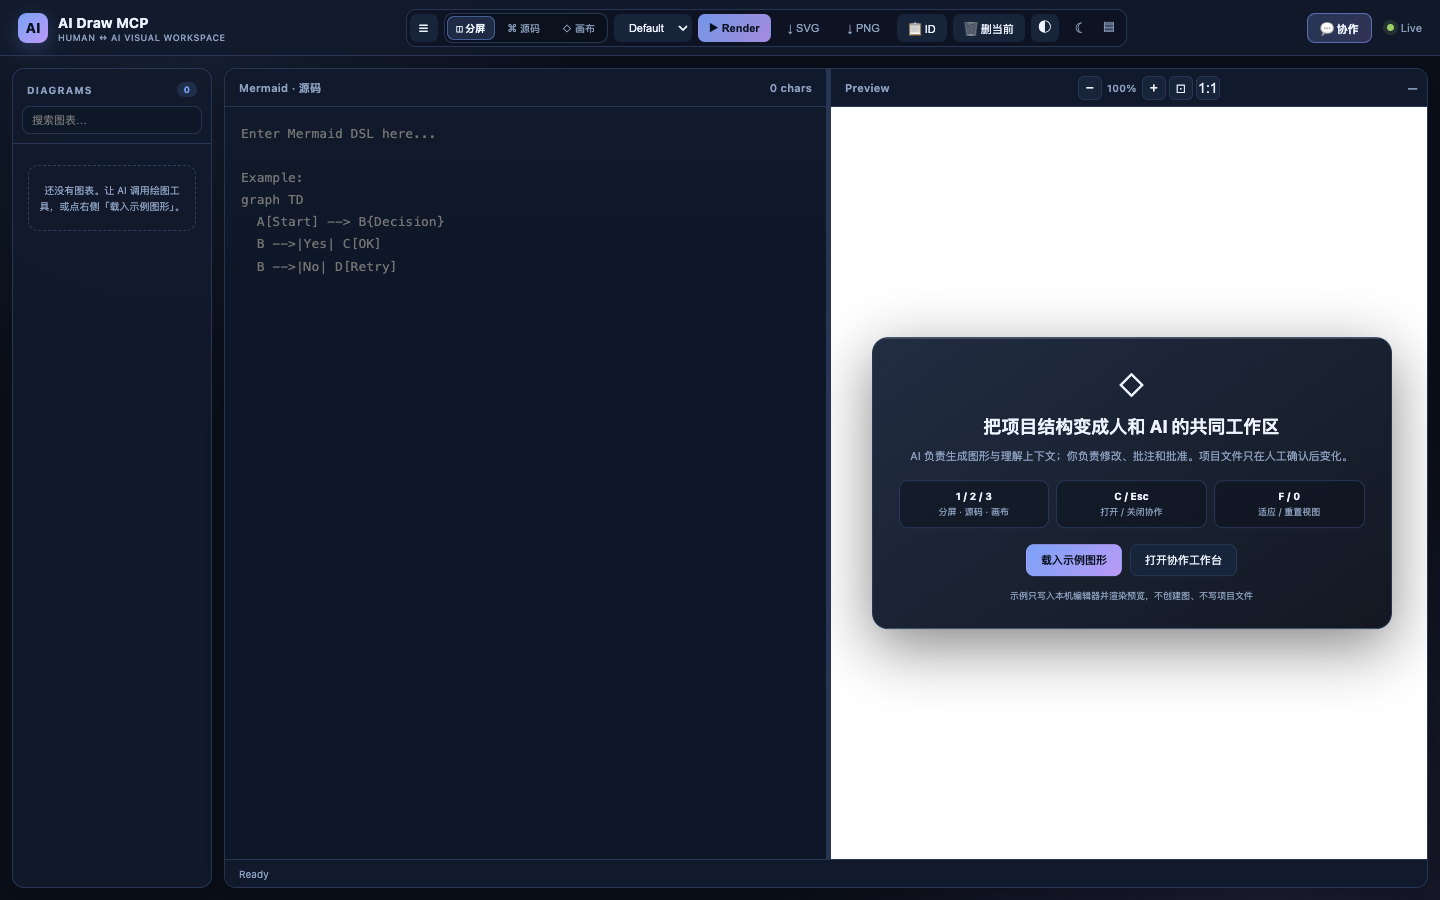
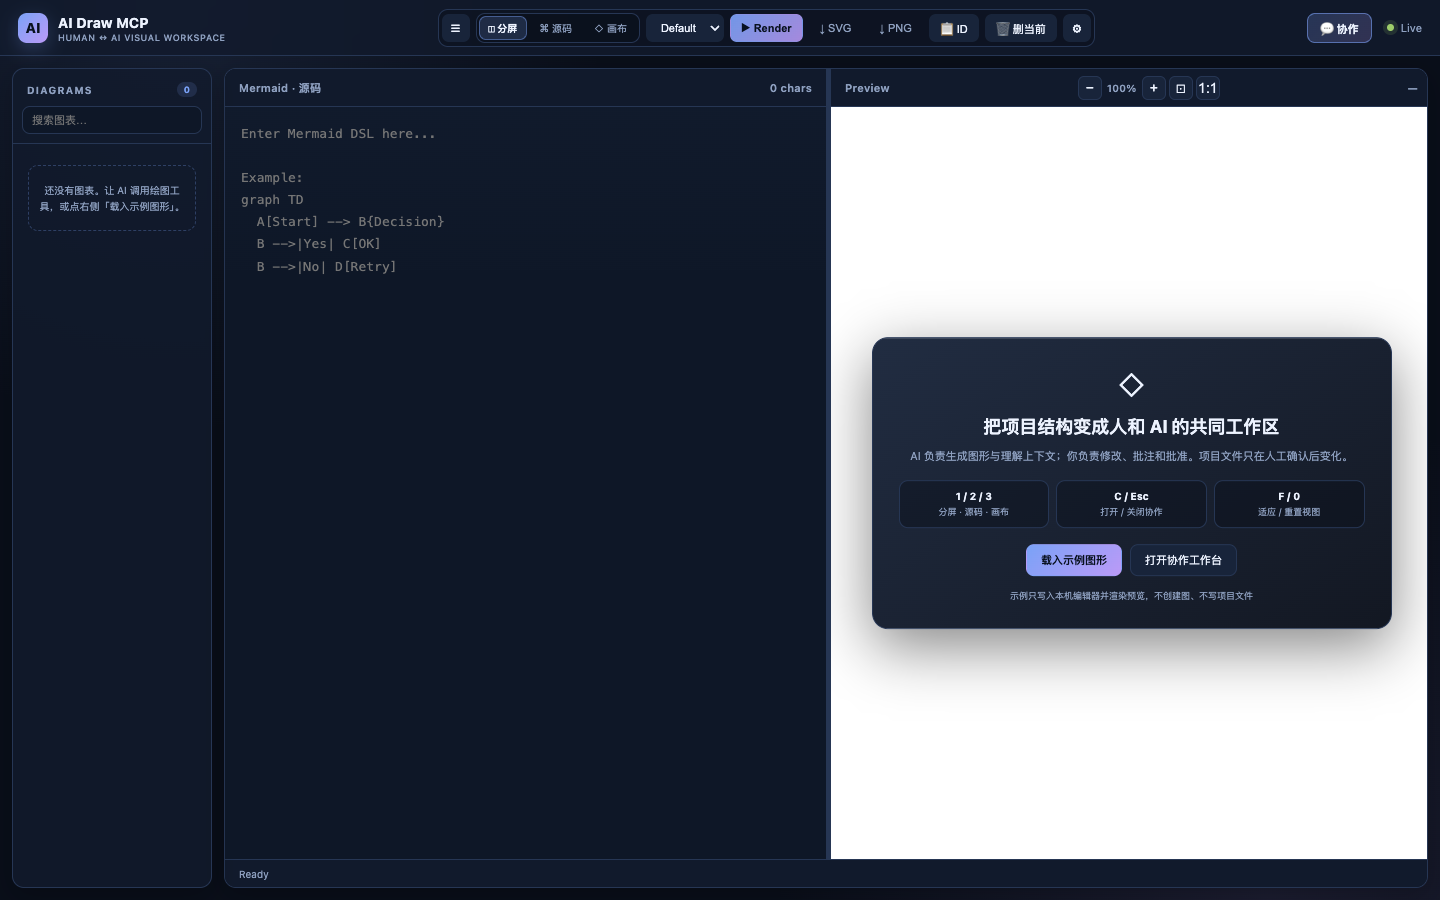
feat: consolidate workspace appearance controls

Changed region(s): [[0.2812, 0.0, 0.5625, 0.0622], [0.625, 0.0, 0.7188, 0.0622]]

diff --git a/src/infra/templates/index.html b/src/infra/templates/index.html
@@ -61,7 +61,7 @@
     .header {
       height: 56px; display: flex; align-items: center; justify-content: space-between;
       padding: 0 18px; border-bottom: 1px solid var(--border); background: var(--glass);
-      backdrop-filter: blur(18px); flex-shrink: 0;
+      backdrop-filter: blur(18px); flex-shrink: 0; position: relative; z-index: 1200;
     }
     .brand-wrap { display: flex; align-items: center; gap: 10px; min-width: 200px; }
     .brand-mark {
@@ -262,8 +262,32 @@
     .view-switch { display: flex; align-items: center; gap: 2px; padding: 2px; border: 1px solid var(--border); border-radius: 9px; background: rgba(9,14,25,.55); }
     .view-switch button { height: 24px; padding: 0 9px; border-color: transparent; background: transparent; color: var(--text-muted); font-size: 10px; }
     .view-switch button.active { background: rgba(122,162,247,.18); color: var(--text); border-color: rgba(122,162,247,.42); font-weight: 700; }
-    .appearance-switch { display: flex; align-items: center; gap: 2px; }
-    .appearance-switch button { width: 28px; }
+    .appearance-wrap { position: relative; z-index: 1200; }
+    .appearance-popover {
+      position: fixed; right: 18px; top: 52px; z-index: 1200; width: 268px; padding: 12px;
+      border: 1px solid var(--border); border-radius: 14px; background: var(--glass);
+      box-shadow: var(--shadow); backdrop-filter: blur(18px); transform-origin: top right;
+      transform: translateY(-4px) scale(.98); opacity: 0; pointer-events: none;
+      transition: opacity .18s, transform .18s;
+    }
+    .appearance-popover.open { transform: none; opacity: 1; pointer-events: auto; }
+    .appearance-popover[hidden] { display: none; }
+    .appearance-popover::before { content: ''; position: absolute; right: 20px; top: -6px; width: 10px; height: 10px; border-left: 1px solid var(--border); border-top: 1px solid var(--border); background: var(--glass); transform: rotate(45deg); pointer-events: none; }
+    .appearance-title { display: flex; align-items: center; justify-content: space-between; margin-bottom: 10px; color: var(--text); font-size: 11px; font-weight: 700; }
+    .appearance-title span { color: var(--text-muted); font-size: 9px; font-weight: 500; }
+    .appearance-group { margin-bottom: 11px; }
+    .appearance-group:last-of-type { margin-bottom: 8px; }
+    .appearance-label { display: block; margin-bottom: 6px; color: var(--text-muted); font-size: 9px; letter-spacing: .07em; text-transform: uppercase; }
+    .appearance-options { display: flex; gap: 5px; }
+    .appearance-options button { flex: 1; height: 30px; padding: 0 7px; border: 1px solid var(--border); border-radius: 8px; background: var(--surface2); color: var(--text-muted); font-size: 10px; cursor: pointer; transition: border-color .15s, background .15s, color .15s; }
+    .appearance-options button:hover { border-color: rgba(122,162,247,.55); color: var(--text); }
+    .appearance-options button.active { border-color: var(--accent); background: rgba(122,162,247,.16); color: var(--text); font-weight: 700; }
+    .appearance-shortcuts { display: grid; grid-template-columns: 1fr auto; gap: 5px 8px; padding: 9px; border: 1px dashed var(--border); border-radius: 10px; background: rgba(9,14,25,.35); color: var(--text-muted); font-size: 9px; line-height: 1.35; }
+    .appearance-shortcuts kbd { padding: 1px 5px; border: 1px solid var(--border); border-radius: 4px; background: var(--surface2); color: var(--text); font: inherit; font-weight: 700; white-space: nowrap; }
+    body.theme-light .appearance-popover, body.theme-light .appearance-popover::before { background: rgba(255,255,255,.96); }
+    body.density-compact .appearance-popover { padding: 10px; }
+    body.density-compact .appearance-options button { height: 27px; }
+    body.theme-light .appearance-shortcuts { background: #f5f8fd; }
     .workspace[data-view="source"] #previewPane, .workspace[data-view="canvas"] #editorPane, .workspace[data-view="source"] #divider, .workspace[data-view="canvas"] #divider { display: none; }
     .workspace[data-view="source"] #editorPane, .workspace[data-view="canvas"] #previewPane { flex: 1 1 100% !important; }
     .canvas-chip {
@@ -659,10 +683,45 @@
     <button id="btnExportPng" class="subtle">↓ PNG</button>
     <button id="btnCopyId" type="button" title="复制当前图 ID">📋 ID</button>
     <button id="btnDeleteDiagram" type="button" title="从本机删除当前图">🗑 删当前</button>
-    <button class="btn-icon" id="btnDarkBg" title="Toggle preview background">◐</button>
-    <div class="appearance-switch" role="group" aria-label="外观设置">
-      <button class="btn-icon subtle" id="btnToggleTheme" type="button" title="切换浅色 / 深色工作台">☾</button>
-      <button class="btn-icon subtle" id="btnToggleDensity" type="button" title="切换舒适 / 紧凑密度">▤</button>
+    <div class="appearance-wrap">
+      <button class="btn-icon" id="btnAppearance" type="button" title="外观、布局与快捷键" aria-label="外观、布局与快捷键" aria-expanded="false" aria-controls="appearancePopover">⚙</button>
+      <div class="appearance-popover" id="appearancePopover" hidden role="dialog" aria-label="外观设置">
+        <div class="appearance-title">工作台外观 <span>本机偏好</span></div>
+        <div class="appearance-group">
+          <span class="appearance-label">界面主题</span>
+          <div class="appearance-options" role="group" aria-label="界面主题">
+            <button type="button" data-ui-theme="dark">☾ 深色</button>
+            <button type="button" data-ui-theme="light">☀ 浅色</button>
+          </div>
+        </div>
+        <div class="appearance-group">
+          <span class="appearance-label">信息密度</span>
+          <div class="appearance-options" role="group" aria-label="信息密度">
+            <button type="button" data-density="comfortable">舒适</button>
+            <button type="button" data-density="compact">紧凑</button>
+          </div>
+        </div>
+        <div class="appearance-group">
+          <span class="appearance-label">预览背景</span>
+          <div class="appearance-options" role="group" aria-label="预览背景">
+            <button type="button" data-preview-bg="light">浅底</button>
+            <button type="button" data-preview-bg="dark">深底</button>
+          </div>
+        </div>
+        <div class="appearance-group">
+          <span class="appearance-label">图表库</span>
+          <div class="appearance-options" role="group" aria-label="图表库">
+            <button type="button" data-sidebar="open">显示</button>
+            <button type="button" data-sidebar="collapsed">隐藏</button>
+          </div>
+        </div>
+        <div class="appearance-shortcuts">
+          <span>分屏 / 源码 / 画布</span><kbd>1 / 2 / 3</kbd>
+          <span>协作工作台</span><kbd>C · Esc</kbd>
+          <span>适应窗口 / 重置缩放</span><kbd>F / 0</kbd>
+          <span>渲染或发送</span><kbd>⌘/Ctrl + ↵</kbd>
+        </div>
+      </div>
     </div>
   </div>
   <div class="status">
@@ -1332,25 +1391,71 @@ $('#selTheme').addEventListener('change', async () => {
 });
 
 // ── Dark/light preview background ──
-$('#btnDarkBg').addEventListener('click', () => {
-  $('#previewWrap').classList.toggle('dark-bg');
-  prefs.darkBg = $('#previewWrap').classList.contains('dark-bg');
+function setPreviewBackground(mode) {
+  const dark = mode === 'dark';
+  $('#previewWrap').classList.toggle('dark-bg', dark);
+  prefs.darkBg = dark;
   savePrefs();
-});
+  syncAppearanceControls();
+}
 
-// ── Toggle sidebar ──
-$('#btnToggleSidebar').addEventListener('click', () => {
+function setSidebarCollapsed(collapsed) {
   const sidebar = $('#sidebar');
-  sidebar.classList.toggle('collapsed');
-  const isCollapsed = sidebar.classList.contains('collapsed');
-  prefs.sidebarCollapsed = isCollapsed;
-  if (isCollapsed) {
+  sidebar.classList.toggle('collapsed', collapsed);
+  prefs.sidebarCollapsed = collapsed;
+  if (collapsed) {
     sidebar.style.width = ''; // clear inline style → let CSS width:0 win
   } else {
     sidebar.style.width = `${Math.max(120, Math.min(480, prefs.sidebarWidth))}px`;
   }
   savePrefs();
+  syncAppearanceControls();
+}
+
+function syncAppearanceControls() {
+  for (const button of document.querySelectorAll('[data-ui-theme]')) {
+    button.classList.toggle('active', button.dataset.uiTheme === prefs.uiTheme);
+  }
+  for (const button of document.querySelectorAll('[data-density]')) {
+    button.classList.toggle('active', button.dataset.density === prefs.density);
+  }
+  for (const button of document.querySelectorAll('[data-preview-bg]')) {
+    button.classList.toggle('active', button.dataset.previewBg === (prefs.darkBg ? 'dark' : 'light'));
+  }
+  for (const button of document.querySelectorAll('[data-sidebar]')) {
+    button.classList.toggle('active', button.dataset.sidebar === (prefs.sidebarCollapsed ? 'collapsed' : 'open'));
+  }
+  $('#btnToggleSidebar').textContent = prefs.sidebarCollapsed ? '⟩' : '☰';
+}
+
+$('#btnToggleSidebar').addEventListener('click', () => setSidebarCollapsed(!prefs.sidebarCollapsed));
+for (const button of document.querySelectorAll('[data-preview-bg]')) {
+  button.addEventListener('click', () => setPreviewBackground(button.dataset.previewBg));
+}
+for (const button of document.querySelectorAll('[data-sidebar]')) {
+  button.addEventListener('click', () => setSidebarCollapsed(button.dataset.sidebar === 'collapsed'));
+}
+
+const appearanceButton = $('#btnAppearance');
+const appearanceWrap = appearanceButton.closest('.appearance-wrap');
+const appearancePopover = $('#appearancePopover');
+function setAppearanceOpen(open) {
+  appearancePopover.hidden = !open;
+  appearancePopover.classList.toggle('open', open);
+  appearanceButton.setAttribute('aria-expanded', String(open));
+  if (open) syncAppearanceControls();
+}
+appearanceWrap.addEventListener('click', (event) => {
+  if (event.target === appearanceButton) setAppearanceOpen(appearancePopover.hidden);
+  event.stopPropagation();
 });
+document.addEventListener('click', (event) => {
+  if (!appearancePopover.hidden && !appearanceWrap.contains(event.target)) setAppearanceOpen(false);
+});
+document.addEventListener('keydown', (event) => {
+  if (event.key === 'Escape' && !appearancePopover.hidden) setAppearanceOpen(false);
+});
+syncAppearanceControls();
 
 // ── Sidebar resize ──
 {
@@ -2929,18 +3034,28 @@ $('#btnOpenCollabWelcome').addEventListener('click', openCollab);
 for (const button of document.querySelectorAll('.view-switch button')) {
   button.addEventListener('click', () => setWorkspaceView(button.dataset.viewTarget));
 }
-$('#btnToggleTheme').addEventListener('click', (event) => {
-  prefs.uiTheme = document.body.classList.toggle('theme-light') ? 'light' : 'dark';
-  event.currentTarget.textContent = prefs.uiTheme === 'light' ? '☀' : '☾';
+function setUiTheme(mode) {
+  prefs.uiTheme = mode === 'light' ? 'light' : 'dark';
+  document.body.classList.toggle('theme-light', prefs.uiTheme === 'light');
   savePrefs();
+  syncAppearanceControls();
   showToast(prefs.uiTheme === 'light' ? '已切换浅色工作台' : '已切换深色工作台');
-});
-$('#btnToggleDensity').addEventListener('click', () => {
-  prefs.density = document.body.classList.toggle('density-compact') ? 'compact' : 'comfortable';
+}
+
+function setDensity(mode) {
+  prefs.density = mode === 'compact' ? 'compact' : 'comfortable';
+  document.body.classList.toggle('density-compact', prefs.density === 'compact');
   savePrefs();
+  syncAppearanceControls();
   showToast(prefs.density === 'compact' ? '已切换紧凑密度' : '已切换舒适密度');
-});
-$('#btnToggleTheme').textContent = prefs.uiTheme === 'light' ? '☀' : '☾';
+}
+
+for (const button of document.querySelectorAll('[data-ui-theme]')) {
+  button.addEventListener('click', () => setUiTheme(button.dataset.uiTheme));
+}
+for (const button of document.querySelectorAll('[data-density]')) {
+  button.addEventListener('click', () => setDensity(button.dataset.density));
+}
 $('#btnGraphMore').addEventListener('click', (event) => {
   const group = $('#graphMoreActions');
   group.classList.toggle('open');

diff --git a/CHANGELOG.md b/CHANGELOG.md
@@ -12,6 +12,7 @@ The format is based on [Keep a Changelog](https://keepachangelog.com/en/1.1.0/),
 
 ### Maintenance
 
+- 外观设置面板（2026-11-06 11:00 CST）：顶栏原来分散的主题、密度、预览背景与侧栏控制收进单个 ⚙ popover，采用分段按钮显示当前偏好，并加入可随时查看的快捷键表；支持点击外部或 `Esc` 关闭、`aria-expanded` 状态与 localStorage 持久化。偏好仍只影响本机前端，不改 Mermaid 图主题、协作会话、工具契约或写入闸门；浏览器回归覆盖四组设置、活动态、预览背景、侧栏折叠与 popover 可访问性，离线守卫同步覆盖新标记。
 - 对话历史体验（2026-11-06 10:50 CST）：把四个历史标签与消息列表提到中栏顶部，让双向对话成为工作台首屏焦点；消息改为人 / AI / 系统角色气泡，加入头像、中文状态徽章、相对时间、图修订标记、入场动画与空对话引导，四个标签增加实时计数与待处理高亮。源码证据/节点上下文改用独立的紧凑证据卡，避免与对话气泡混淆，并消除重复的 `activitySummary` ID。只改前端派生渲染与 CSS，不改会话数据、消息契约、WebSocket 事件或写入闸门；浏览器回归覆盖角色、状态、计数与证据卡样式，离线守卫同步覆盖新标记。
 - 提案卡片精修（2026-11-06 10:40 CST）：把变更提案重排为带状态色的审阅卡，增加中文状态徽章、图修订/范围指标、SHA-256 与相对时间、四格影响摘要、完整路径列表和批准前检查清单；逐行 diff 增加只读/已加载/失败状态与展开反馈，批准设为唯一主操作，决策中显示 busy 反馈。保留全部 `data-approve` / `data-reject` / `data-diff` / `data-impact` 与现有接口，不新增工具、不改批准协议或项目写入闸门；浏览器回归用临时会话内的示例提案覆盖真实卡片、影响摘要、diff 加载与操作层级，README 工作台截图同步展示提案卡片。
 - 历史信息分组（2026-11-06 10:30 CST）：把中栏「对话 / 活动 / 批注 / 图形差异」从垂直堆叠改为四个迷你标签页，默认显示对话；每个列表 ID、渲染函数和数据源保持不变，只改变可见性，降低滚动与视觉噪音。UI 回归验证四个标签与切换行为，离线守卫覆盖历史分组标记。

diff --git a/README.md b/README.md
@@ -39,7 +39,7 @@
 
 新版界面采用品牌化顶栏、玻璃感导航、卡片式侧栏与圆角工作区，保留滚轮缩放、拖拽平移、右下角小地图导航、双击重置、适应窗口（`F` 键）、明暗背景切换、SVG/PNG 导出等能力。
 
-顶部可在「分屏 / 源码 / 画布」之间切换（`1` / `2` / `3`），视图偏好会保存在本机；协作工作台支持 `C` 打开、`Esc` 关闭，并在窄屏自动变成「项目图 / 对话 / 提案」标签页。
+顶部可在「分屏 / 源码 / 画布」之间切换（`1` / `2` / `3`），视图偏好会保存在本机；⚙ 外观面板集中控制浅色/深色主题、舒适/紧凑密度、预览背景、图表库显示与快捷键表。协作工作台支持 `C` 打开、`Esc` 关闭，并在窄屏自动变成「项目图 / 对话 / 提案」标签页。
 
 ### 双向协作工作台
 
